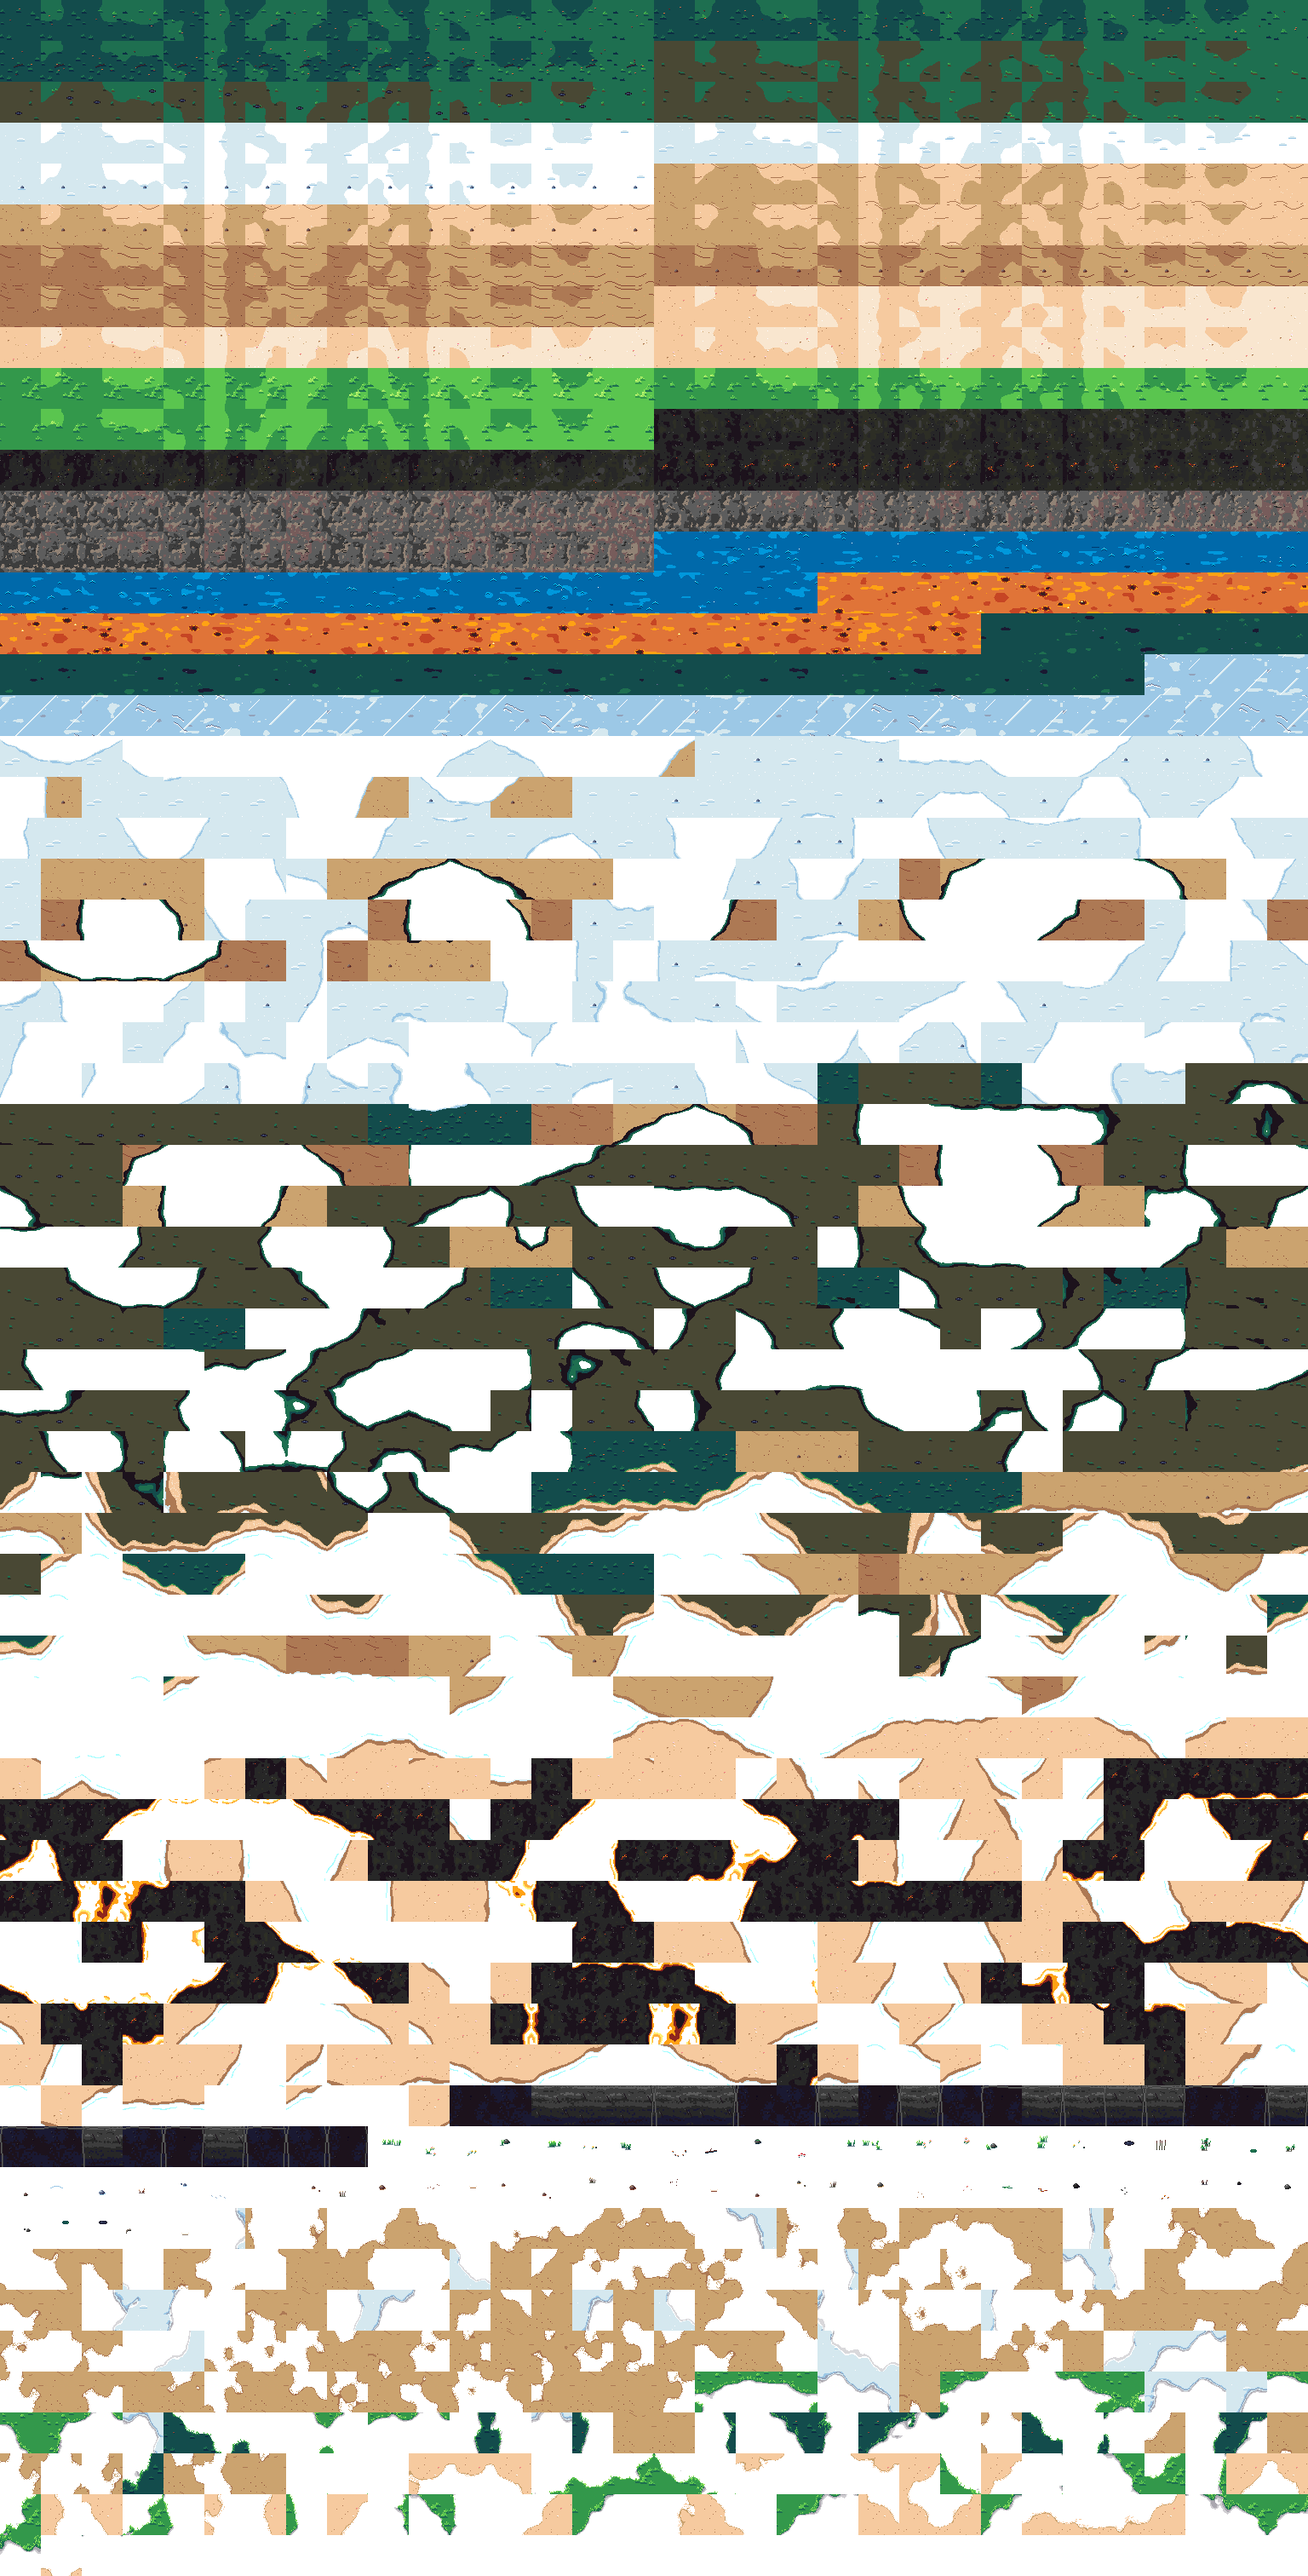
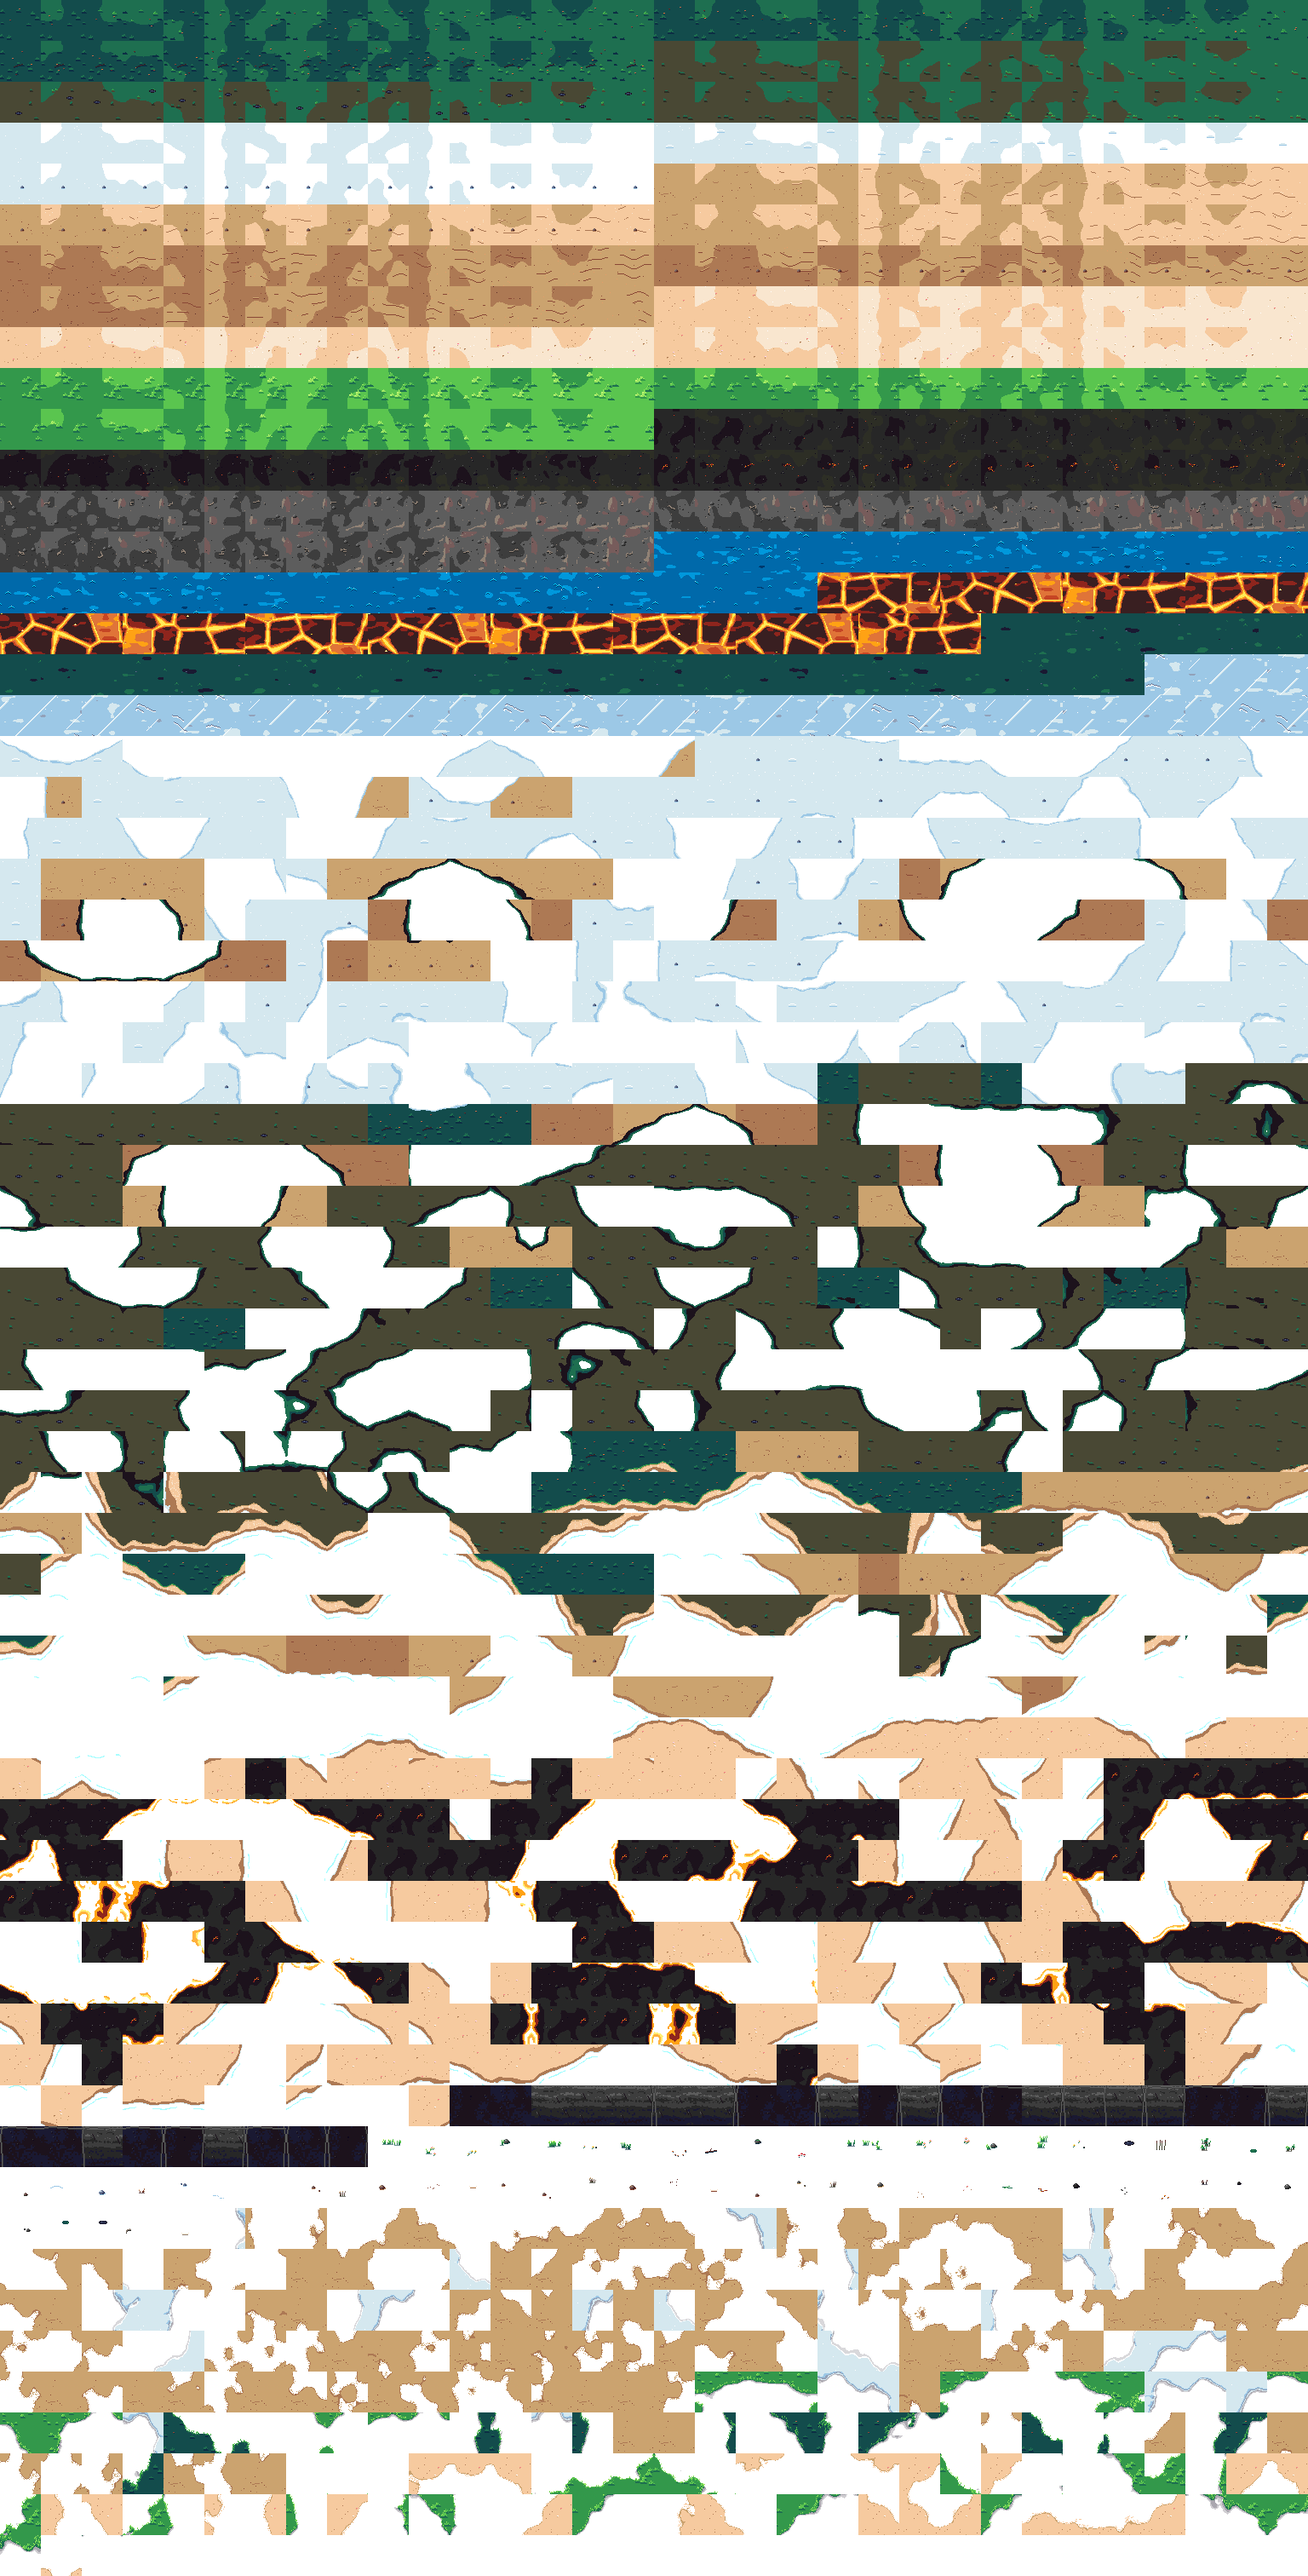
Terreno: lava em crosta e veios com luz própria, cinza e caverna calmas, menos repetição
- Lava: placas de crosta (Voronoi periódico) separadas por veios em 4 tons que pulsam nos
  4 quadros, e poças abertas; a lava emite luz própria à noite (só no miolo, sem vazar).
  Luminância da lava à noite / dia: 27% -> 77%.
- Cinza e caverna: 3 tons em manchas largas e grão raro. Pixels diferentes dos 4 vizinhos:
  cinza 41% -> 18%, caverna 54% -> 22%.
- Deserto: ondulações com fase e curva próprias por ladrilho, sumindo perto da borda (sem
  grade). Neve: sem pegadas em fila e montinhos só num miolo. Areia 12% -> 10%, duna 18% -> 13%.

Changed region(s): [[0.0, 0.1865, 1.0, 0.2798]]

diff --git a/src/art/terrain.js b/src/art/terrain.js
@@ -79,8 +79,10 @@ function toneField(kind, variant) {
   const rocky = kind === T.ASH || kind === T.CAVE || kind === T.SWAMP;
   // Grama: tufos de 8-16 px. Chão macio e rocha: só grão fino (2-6 px); as manchas grandes vêm dos
   // cantos Wang (ruído do mundo), então nada de 'figura' que se repita a cada ladrilho.
-  const [c1, c2, c3] = bladed ? [4, 6, 12] : rocky ? [4, 8, 16] : kind === T.SNOW ? [4, 8, 16] : [6, 12, 24];
-  const [o1, o2] = bladed ? [5, 8] : rocky ? [6, 12] : [8, 16];
+  // Cinza e caverna: manchas largas (2-4 células por ladrilho), como a grama calma; o lodo segue fino.
+  const stony = kind === T.ASH || kind === T.CAVE;
+  const [c1, c2, c3] = bladed ? [4, 6, 12] : stony ? [2, 3, 6] : rocky ? [4, 8, 16] : kind === T.SNOW ? [4, 8, 16] : [6, 12, 24];
+  const [o1, o2] = bladed ? [5, 8] : stony ? [3, 4] : rocky ? [6, 12] : [8, 16];
   const contrast = bladed ? 1.6 : rocky ? 1.1 : 0.62;
   const macro = bladed ? 0.38 : rocky ? 0.42 : 0.55;
   const field = new Float32Array(S * S);
@@ -321,8 +323,11 @@ function ripples(canvas, kind, field, seed, variant) {
   for (let x = 0; x < S; x += 1) {
     const bend = Math.sin((x / S) * Math.PI * 2 + seed) * 2.4 + Math.sin((x / S) * Math.PI * 4 + seed * 1.7) * 1.2;
     for (let y = 0; y < S; y += 1) {
-      const phase = (((y + bend) % spacing) + spacing) % spacing;
-      const keep = periodic(x, y, 4, seed + 11) + (wangAt(wang, x, y) - 0.5) * 0.3 > (kind === T.DUNE ? 0.6 : 0.66);
+      const phase = (((y + bend + seed * 3) % spacing) + spacing) % spacing;
+      // Longe da borda do ladrilho: cada ladrilho tem suas próprias ondas, sem emenda com o vizinho.
+      const border = Math.min(x, y, S - 1 - x, S - 1 - y);
+      const fade = border < 6 ? (6 - border) * 0.08 : 0;
+      const keep = periodic(x, y, 4, seed + 11) + (wangAt(wang, x, y) - 0.5) * 0.3 - fade > (kind === T.DUNE ? 0.6 : 0.66);
       if (!keep) continue;
       const t = field[y * S + x];
       if (phase < 1) canvas.pixel(x, y, t > 0.4 ? r[3] : r[2]);
@@ -331,21 +336,21 @@ function ripples(canvas, kind, field, seed, variant) {
   }
 }
 
-/** Chão de pedra/cinza: tom em degraus, grão e marcas. */
+/** Chão de pedra/cinza: 3 tons em manchas largas, lombadas com luz e grão raro (sem chiado). */
 function rockGround(canvas, kind, field, seed) {
   const r = RAMP[kind];
   const steps = kind === T.CAVE
-    ? [[0.3, r[2]], [0.7, r[3]], [0.9, r[4]], [2, r[5]]]
-    : [[0.22, r[1]], [0.55, r[2]], [0.82, r[3]], [2, r[4]]];
+    ? [[0.36, r[2]], [0.78, r[3]], [2, r[4]]]
+    : [[0.3, r[1]], [0.74, r[2]], [2, r[3]]];
   for (let y = 0; y < S; y += 1) {
     for (let x = 0; x < S; x += 1) {
       const t = field[y * S + x];
       canvas.pixel(x, y, steps.find(([limit]) => t < limit)[1]);
       // Luz do alto à esquerda nas "lombadas" do chão.
-      if (kind === T.CAVE && x > 0 && y > 0 && field[y * S + x] - field[(y - 1) * S + x - 1] > 0.075) canvas.pixel(x, y, kind === T.CAVE ? r[5] : r[4]);
+      if (kind === T.CAVE && x > 0 && y > 0 && field[y * S + x] - field[(y - 1) * S + x - 1] > 0.05 && field[y * S + x] > 0.6) canvas.pixel(x, y, r[5]);
       const g = hash(x, y, seed);
-      if (g > 0.99) canvas.pixel(x, y, kind === T.CAVE ? r[1] : r[0]);
-      else if (g < 0.005) canvas.pixel(x, y, kind === T.CAVE ? r[5] : r[5]);
+      if (g > 0.997) canvas.pixel(x, y, kind === T.CAVE ? r[1] : r[0]);
+      else if (g < 0.002) canvas.pixel(x, y, r[5]);
     }
   }
 }
@@ -386,10 +391,10 @@ function base(canvas, kind, variant) {
   }
   if (kind === T.SNOW || kind === T.SAND || kind === T.DUNE || kind === T.BEACH) {
     softGround(canvas, kind, calmOf(kind, variant), s);
-    if (kind === T.SAND || kind === T.DUNE) ripples(canvas, kind, calmOf(kind, variant), kind * 3 + 1, variant);
+    if (kind === T.SAND || kind === T.DUNE) ripples(canvas, kind, calmOf(kind, variant), kind * 3 + 1 + core * 17 + (variant & 15) * 5, variant);
     if (kind === T.SNOW) {
       // Montinhos de neve (luz em cima, lado de baixo azulado) e brilhos.
-      scatterInner(s + 3, 1 + (core % 2), (x, y) => {
+      scatterInner(s + 3, core === 1 ? 1 : 0, (x, y) => {
         for (let dx = -4; dx <= 4; dx += 1) {
           const h = Math.round(Math.sqrt(Math.max(0, 1 - (dx / 4.5) ** 2)) * 2);
           for (let dy = -h; dy <= 0; dy += 1) canvas.pixel(x + dx, y + dy, dy === -h ? '#ffffff' : '#d5e8ef');
@@ -738,7 +743,7 @@ export function drawDecorTile(kind, n) {
       else if (n === 1) pebble(canvas, cx, cy, 2, SNOW_STONE, '#9cc8e6');
       else if (n === 2) tuftAt(canvas, cx, cy, ['#391f21', '#5d2c28', '#8a4836', '#ad7954', '#cba36f', '#f6ca9f'], s, { count: 6, min: 2, max: 5 });
       else if (n === 3) { pebble(canvas, cx, cy, 0, SNOW_STONE, '#9cc8e6'); pebble(canvas, cx + 5, cy + 2, 1, SNOW_STONE, '#9cc8e6'); }
-      else if (n === 4) for (let i = 0; i < 4; i += 1) { canvas.pixel(cx - 8 + i * 5, cy + (i % 2) * 2, '#92a1b9'); canvas.pixel(cx - 7 + i * 5, cy + (i % 2) * 2 + 1, '#9cc8e6'); }
+      else if (n === 4) for (let x = -9; x <= 6; x += 1) { const y = cy + Math.round(Math.sin(x * 0.45) * 1.4 + (x > 0 ? x * 0.25 : 0)); canvas.pixel(cx + x, y, '#ffffff'); if (hash(x, 9, s) > 0.3) canvas.pixel(cx + x, y + 1, '#9cc8e6'); }
       else for (let i = 0; i < 5; i += 1) canvas.pixel(cx + Math.round((hash(i, 7, s) - 0.5) * 16), cy + Math.round((hash(i, 8, s) - 0.5) * 10), '#ffffff');
       break;
     case T.SAND:
@@ -790,6 +795,38 @@ const BIG = S * UNDER_SUBTILES;
 const bigWrap = (v) => ((v % BIG) + BIG) % BIG;
 const underCache = new Map();
 
+/**
+ * Lava em 4 tons + crosta: placas de crosta escura (células de Voronoi periódicas) separadas por veios
+ * acesos (núcleo amarelo → laranja → vermelho) que pulsam de quadro em quadro.
+ */
+const LAVA_CELL = 36;
+function lavaTone(x, y, frame, seed, v) {
+  const cells = BIG / LAVA_CELL;
+  const gx = Math.floor(x / LAVA_CELL); const gy = Math.floor(y / LAVA_CELL);
+  let f1 = Infinity; let f2 = Infinity; let id = 0;
+  for (let j = -1; j <= 1; j += 1) {
+    for (let i = -1; i <= 1; i += 1) {
+      const cx = gx + i; const cy = gy + j;
+      const wx = ((cx % cells) + cells) % cells; const wy = ((cy % cells) + cells) % cells;
+      const px = (cx + 0.15 + hash(wx, wy, seed + 31) * 0.7) * LAVA_CELL;
+      const py = (cy + 0.15 + hash(wx, wy, seed + 32) * 0.7) * LAVA_CELL;
+      const d = Math.hypot((x + 0.5 - px) * 0.9, y + 0.5 - py);
+      if (d < f1) { f2 = f1; f1 = d; id = hash(wx, wy, seed + 33); } else if (d < f2) f2 = d;
+    }
+  }
+  // Distância até o veio, com a borda das placas irregular.
+  const e = f2 - f1 + (v - 0.5) * 6;
+  const pulse = [0, 0.5, 1, 0.5][frame % 4];
+  // Uma placa em cada cinco derreteu: vira poça de lava aberta (laranja com manchas claras).
+  if (id < 0.2) return v > 0.62 ? 4 : v < 0.3 ? 2 : 3;
+  if (e < 1.2 + pulse * 0.5) return 5;
+  if (e < 2.8 + pulse * 0.3) return 4;
+  if (e < 4.2) return 3;
+  if (e < 5.4) return 2;
+  // Crosta: dois tons em manchas largas (sem anéis concêntricos).
+  return v > 0.6 ? 1 : 0;
+}
+
 /** Bloco inteiro (144 px, periódico) de um quadro; os ladrilhos são recortes dele. */
 function underBlock(kind, frame) {
   const key = `${kind}-${frame}`;
@@ -806,7 +843,7 @@ function underBlock(kind, frame) {
       const v = noise(sx, (y * 3) % BIG, 8, seed) * 0.5 + noise(sx, (y * 2) % BIG, 16, seed + 1) * 0.3 + noise(x, y, 6, seed + 2) * 0.2;
       let tone;
       if (kind === T.SEA) tone = v < 0.2 ? 1 : v < 0.7 ? 2 : 3;
-      else if (kind === T.LAVA) tone = v < 0.3 ? 2 : v < 0.66 ? 3 : 4;
+      else if (kind === T.LAVA) tone = lavaTone(sx, y, frame, seed, v);
       else if (kind === T.MURK) tone = v < 0.24 ? 1 : v < 0.78 ? 2 : 4;
       else tone = v < 0.16 ? 1 : v < 0.68 ? 2 : 3;
       canvas.pixel(x, y, tones[tone]);
@@ -829,17 +866,7 @@ function underBlock(kind, frame) {
     });
     spots(20, seed + 12).forEach(([x, y], index) => { if (phase(index) === 0) put(x, y, '#ffffff'); });
   } else if (kind === T.LAVA) {
-    // Placas de crosta boiando (escuras, borda acesa) e bolhas.
-    spots(16, seed + 10).forEach(([x, y], index) => {
-      const rx = 3 + (index % 4);
-      for (let dy = -rx; dy <= rx; dy += 1) {
-        for (let dx = -rx - 2; dx <= rx + 2; dx += 1) {
-          const r = Math.hypot(dx / (rx + 1.5), dy / (rx * 0.7)) + (hash(dx + x, dy + y, seed) - 0.5) * 0.25;
-          if (r < 0.7) put(x + dx + drift, y + dy, r < 0.45 ? tones[0] : tones[1]);
-          else if (r < 0.85) put(x + dx + drift, y + dy, tones[4]);
-        }
-      }
-    });
+    // Crosta e veios já vêm de lavaTone; aqui só as bolhas que estouram nos veios.
     spots(14, seed + 11).forEach(([x, y], index) => {
       const p = phase(index);
       if (p === 0) { put(x, y, tones[5]); put(x + 1, y, tones[4]); }

diff --git a/src/game/LightingSystem.js b/src/game/LightingSystem.js
@@ -2,6 +2,9 @@ import Phaser from 'phaser';
 import { CONSUMABLES } from '../data/consumables.js';
 import { GLOW_LEVELS, HALO_RGB, KIND, lightBand } from '../art/light.js';
 import { OVERLAY_DEPTH } from './depths.js';
+import { T } from '../data/worldRegions.js';
+
+const LAVA_KIND = T.LAVA;
 
 // Luz local (Fase 20E). Duas camadas em tela, na resolução de 1 célula = 4 px de tela:
 // - `mask`: a escuridão da noite (roxo-azulada, da paleta), aberta por cada fonte em
@@ -159,6 +162,60 @@ export class LightingSystem {
     }
   }
 
+  /**
+   * Lava emite luz própria: as células da tela sobre lava não escurecem com a noite (ficam a ~85 %)
+   * e ganham um brilho laranja aditivo que pulsa devagar. Amostragem a cada 2 células (8 px de tela), com a borda em degradê.
+   */
+  lightLava(light, glow, camera, glowScale, t) {
+    const world = this.scene.regionWorld;
+    if (!world?.terrainAtPoint) return;
+    const width = this.width;
+    const height = this.height;
+    const toWorld = CELL / camera.zoom;
+    const view = camera.worldView;
+    const ramp = HALO_RGB.lava;
+    const pulse = 1 + 0.08 * Math.sin(t * 2.1);
+    const warmth = (0.1 + 0.22 * glowScale) * pulse;
+    // Máscara grossa (1 amostra a cada 2 células) e média 3x3: a borda da lava vira um degradê
+    // em degraus, sem os quadrados dos ladrilhos.
+    const gw = Math.ceil(width / 2); const gh = Math.ceil(height / 2);
+    const mask = new Uint8Array(gw * gh);
+    let any = false;
+    for (let gy = 0; gy < gh; gy += 1) {
+      for (let gx = 0; gx < gw; gx += 1) {
+        const wx = view.x + (gx * 2 + 1) * toWorld; const wy = view.y + (gy * 2 + 1) * toWorld;
+        // Só o miolo da lava (a 20 px de qualquer outro terreno): a franja de cinza que invade a borda
+        // do ladrilho fica escura e a luz não vaza em quadrados para o chão.
+        if (![[0, 0], [20, 0], [-20, 0], [0, 20], [0, -20]].every(([ox, oy]) => world.terrainAtPoint(wx + ox, wy + oy) === LAVA_KIND)) continue;
+        mask[gy * gw + gx] = 1; any = true;
+      }
+    }
+    if (!any) return;
+    for (let gy = 0; gy < gh; gy += 1) {
+      for (let gx = 0; gx < gw; gx += 1) {
+        let sum = 0;
+        for (let j = -1; j <= 1; j += 1) for (let i = -1; i <= 1; i += 1) {
+          const xx = gx + i; const yy = gy + j;
+          if (xx >= 0 && yy >= 0 && xx < gw && yy < gh) sum += mask[yy * gw + xx];
+        }
+        if (!sum) continue;
+        const k = Math.ceil(Math.min(1, sum / 6) * 4) / 4;
+        for (let dy = 0; dy < 2; dy += 1) {
+          for (let dx = 0; dx < 2; dx += 1) {
+            const x = gx * 2 + dx; const y = gy * 2 + dy;
+            if (x >= width || y >= height) continue;
+            const index = y * width + x;
+            if (light[index] < 0.85 * k) light[index] = 0.85 * k;
+            const color = ramp[1];
+            glow[index * 3] += color[0] * warmth * k;
+            glow[index * 3 + 1] += color[1] * warmth * k;
+            glow[index * 3 + 2] += color[2] * warmth * k;
+          }
+        }
+      }
+    }
+  }
+
   draw(lightLevel, player) {
     this.place();
     const width = this.width;
@@ -218,6 +275,7 @@ export class LightingSystem {
     }
 
     this.lightCampArea(light, glow, camera, glowScale, t);
+    this.lightLava(light, glow, camera, glowScale, t);
 
     // Os buffers de pixels são reaproveitados (nada de alocar duas imagens a cada redesenho).
     this.maskData ??= this.context.createImageData(width, height);
